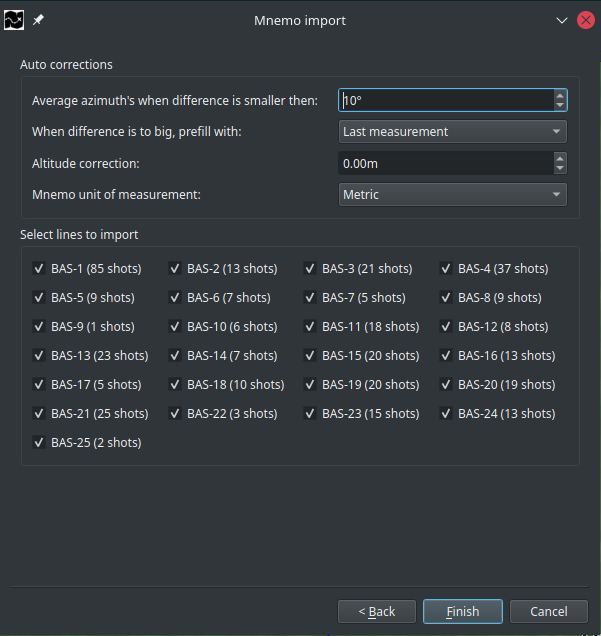
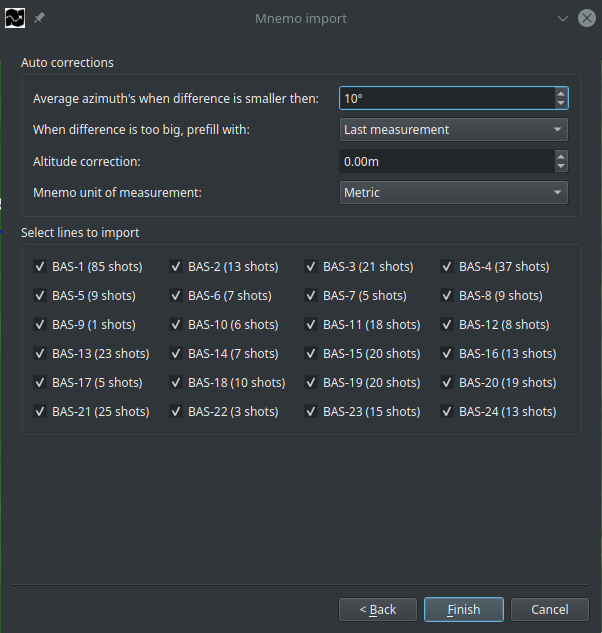
Mnemo import WOP

diff --git a/src/pages/import/mnemo.md b/src/pages/import/mnemo.md
@@ -1,5 +1,22 @@
 # Mnemo import
-Due to some technical limitations we are not able to support a trustworthy connection between **StickMaps** and your Mnemo.
+
+## Introduction
+### Stations VS Shots
+**StickMaps** and Mnemo have a fundamental different perspective on your survey data that you need to be aware of.
+- Your Mnemo measures and stores the line between 2 stations called a shot. A station is just the start or the end of the shot. 
+- **StrickMaps** stores stations and calculates the line between two stations.
+
+In order to avoid confusion or mis-identifying stations there is a simple rule that will help you do so:
+
+1) Always write the number displayed BETWEEN 2 shots in your wet-notes. (before taking the second azimuth)
+2) When logging the last station of a line, finish your measurement and write down the number shown just before you turn your Mnemo off.
+3) If when entering data into **StickMaps**, you miss a station, most probably you accidentally removed the last measurement when turning the device off.
+
+If your stick to this strategy, the "(reference) id" of a station will always match the number writing in your wet-notes.
+
+### No direct connection
+Due to technical limitations we are not able to support a direct connection between **StickMaps** and your Mnemo.
+Instead, **StickMaps** imports the backup file (*.dmp) exported by MnemoBridge.
 
 ## MnemoBridge
 You will need to install MnemoBridge in order to save your data to a .dmp file.
@@ -26,8 +43,7 @@ Al due in most instances this will work correctly, there are instances in where 
 **StickMaps** is able to recover from multiple flaws in the file-format but can unfortunately not recover missing data.
 This is a known problem and is a result of a faulty export within MnemoBridge that most likely happens on older computers.
 A possible fix is to close all programs on your computer, disconnect from the internet, disconnect your Mnemo, restart MnemoBridge and try again.
-If this does not work, please contact the supplier of your Mnemo, we can unfortunately not help you.
-
+If this does not work, please contact the supplier of your Mnemo, we can not help you.
 
 ## Add survey details.
 **StickMaps** orders your data by survey and stores the information about your survey for later use.
@@ -67,8 +83,58 @@ After providing all data, the dialog should look something like this:
 After providing all available data,  Click `Next` to continue the process.
 
 ## Import preferences
+Before reading the data from the file, **StickMaps** requires a few preferences to be defined.
 ![Mnemo import Preferences](../../images/mnemoImport/page_2.png "Preferences")
 
 
+| Field name | Description |
+| ----------- | ----------- |
+| Average azimuth's when difference is smaller then | A value between 10 and 20 percent is advised |
+| When difference is too big, prefill with | Generally you will want to use "Last measurement", as most likely line replacement is the cause of the difference |
+| Altitude correction | Mnemo incorrectly calibrated, offset the depth measurement here. (use a NEGATIVE value for depth) |
+| Menmo unit of measurement | Mnemo dmp files present distances in the units as set within the Mnemo |
+| Select lines to import | Allows you too only import the required line |
 
+### Verify your data
+After providing your preferences, click `Finish` to start the import.
+
+## Verify lines
+**StickMaps** Will parse the dmp file and verify every station inside it.
+It is important to note that while Mnemo measures shots, **StickMaps** works with stations.
+As a result, you will always have 1 station more than you will have shots.
+
+![Mnemo import Line](../../images/mnemoImport/page_3.png "Verify line")
+
+
+### Line details
+| Field name | Description |
+| ----------- | ----------- |
+| Line name | This will allow you to search and recognize your line within the navigator |
+| This was | Was this line new exploration, re-survey or something else? |
+| Direction | Did you survey on the way IN or on the way OUT? |
+| Altitude correction | Use a NEGATIVE number for depth|
+| Explorers | The name(s) of the (original) explorers |
+| Surveyors | The name(s) of the person(s) gathering the survey data for this line |
+| Tags | Tags are used for searching and grouping, add tags as you see fit it helps you finding specific lines. |
+| Comments | Anything specific about this line you wish to remember |
+
+### Corrections
+This table will show every station that has an azimuth difference bigger then the value you specified at the 
+previous page (`Average azimuth's when difference is smaller then`) and will give you 5 options.
+
+1) Use the preset as specified at the previous page (`When difference is too big, prefill with`)
+2) Change the value manually
+3) Use the last measurement
+4) Use the average of both measurements
+5) Use the first measurement
+
+
+| Column name | Description |
+| ----------- | ----------- |
+| id | The non-changeable of the station (remember that the numbers in your wet-notes are shots) *|
+| Altitude | The altitude measured at the station |
+| Azimuth | The azimuth as prefilled as specified on the previous page |
+| Azimuth LAST | The azimuth of the LAST measurement of the current shot|
+| Azimuth AVG | The average of both azimuths |
+| Azimuth FIRST | The azimuth of the FIRST measurement of the current shot|
 

diff --git a/src/pages/import/manual.md b/src/pages/import/manual.md
@@ -12,6 +12,7 @@ Al due all fields in this dialog are optional or prefilled, you will benefit fro
 *\*The wizard might look different on your computer depending on your operating system and desktop theme.*
 
 ### Basics
+
 | Field name | Description | 
 | ----------- | ----------- |
 | Survey name | This will be the name under which you will see your survey in the navigator |
@@ -19,6 +20,7 @@ Al due all fields in this dialog are optional or prefilled, you will benefit fro
 | Most of the survey was | Did you do mainly exploration or re-survey  |
 
 ### Credentials
+
 | Field name | Description |
 | ----------- | ----------- |
 | Explorers | The name(s) of the (original) explorers |
@@ -26,6 +28,7 @@ Al due all fields in this dialog are optional or prefilled, you will benefit fro
 | Cartographer | The name(s) of the person(s) adding the data to **StickMaps** |
 
 ### Details
+
 | Field name | Description |
 | ----------- | ----------- |
 | Tags | Tags are used for searching and grouping, add tags as you see fit it helps you finding specific surveys. |
